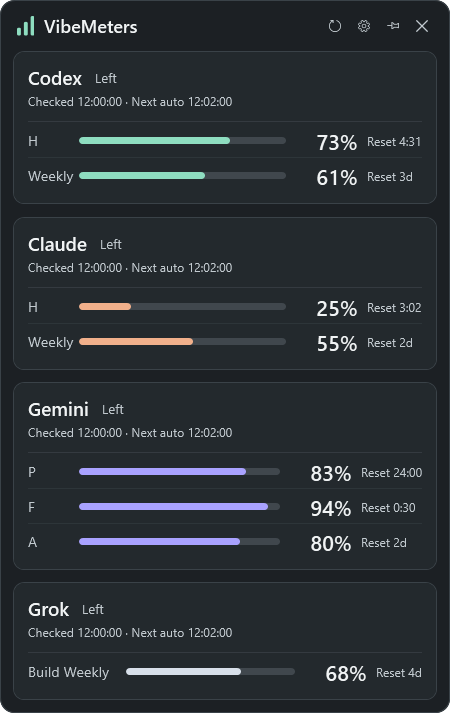
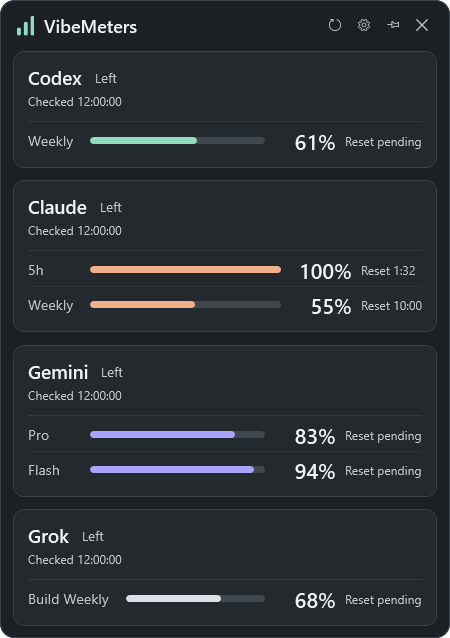
fix(dashboard): restore readable quota names and reserve shortcuts for widgets

diff --git a/MainWindow.xaml.cs b/MainWindow.xaml.cs
@@ -178,7 +178,7 @@ public partial class MainWindow : Window
         public double DividerBottom=>Size(0,1);
         public double Gap=>Size(3,11);
         public double CardRadius=>Size(5,9);
-        public double LabelWidth=>Localizer.IsEnglish?Size(32,42):Size(25,34);
+        public double LabelWidth=>Localizer.IsEnglish?Size(34,52):Size(26,42);
         public double ValueWidth=>Size(32,52);
         public double MeterHeight=>Size(3,6);
         public double MeterGap=>Size(4,9);
@@ -326,7 +326,7 @@ public partial class MainWindow : Window
             var entry=entries[i];var quota=entry.Quota;
             var row=new Grid { Height=metrics.RowHeight,ToolTip=WrappedTip(quota==null?ProviderTooltip(snapshot)+"\n사용량 정보 없음 · 수치를 확인하면 표시합니다.":WindowTooltip(quota,snapshot)+(quota.Name=="월 추가 사용"?"\n"+snapshot.Message:"")) };
             row.ColumnDefinitions.Add(new ColumnDefinition { Width=new GridLength(snapshot.Provider==UsageProviderKind.Grok?Math.Max(Localizer.IsEnglish?metrics.Size(54,82):metrics.Size(44,70),metrics.LabelWidth):metrics.LabelWidth) });row.ColumnDefinitions.Add(new ColumnDefinition());row.ColumnDefinitions.Add(new ColumnDefinition { Width=new GridLength(metrics.ValueWidth) });
-            row.Children.Add(new TextBlock { Text=ShortQuotaName(snapshot.Provider, entry.Name),Foreground=Palette("SecondaryText"),FontSize=metrics.LabelFont,VerticalAlignment=VerticalAlignment.Center,TextTrimming=TextTrimming.CharacterEllipsis });
+            row.Children.Add(new TextBlock { Text=ShortQuotaName(entry.Name),Foreground=Palette("SecondaryText"),FontSize=metrics.LabelFont,VerticalAlignment=VerticalAlignment.Center,TextTrimming=TextTrimming.CharacterEllipsis });
             var meter=new ProgressBar { Value=quota==null?0:DisplayPercent(snapshot.Provider,quota),Foreground=quota!=null&&quota.RemainingPercent<=10?Palette("CriticalText"):Accent(snapshot.Provider),Height=metrics.MeterHeight,Margin=new Thickness(0,0,metrics.MeterGap,0),VerticalAlignment=VerticalAlignment.Center };
             Grid.SetColumn(meter,1);row.Children.Add(meter);
             var value=quota==null?new TextBlock { Text="—",FontSize=metrics.ValueFont,Foreground=Palette("MutedText"),TextAlignment=TextAlignment.Right,VerticalAlignment=VerticalAlignment.Center }:QuotaValue(snapshot.Provider,quota,metrics.ValueFont);
@@ -360,10 +360,10 @@ public partial class MainWindow : Window
         Typography.SetNumeralAlignment(value,FontNumeralAlignment.Tabular);
         return value;
     }
-    private static string ShortQuotaName(UsageProviderKind provider, string name)
+    private static string ShortQuotaName(string name)
     {
-        if (provider == UsageProviderKind.Gemini && TaskbarProviderPresentation.GeminiGraphLabel(name) is { } model) return model;
-        return name.StartsWith("Build ",StringComparison.Ordinal)||name.StartsWith("공유 ",StringComparison.Ordinal)?name:name=="개인 한도"?"개인":name=="월 추가 사용"?"월추가":name.Contains("주")?"주간":name.Contains("5시간")?"H":name.Contains("세션")||name.Contains("시간")?"세션":name.Replace("모델","").Trim();
+        if (name.Contains("Argon", StringComparison.OrdinalIgnoreCase)) return "Argon";
+        return name.StartsWith("Build ",StringComparison.Ordinal)||name.StartsWith("공유 ",StringComparison.Ordinal)?name:name=="개인 한도"?"개인":name=="월 추가 사용"?"월추가":name.Contains("주")?"주간":name.Contains("5시간")?"5시간":name.Contains("세션")||name.Contains("시간")?"세션":name.Replace("모델","").Trim();
     }
     private static ToolTip WrappedTip(string text)=>new ToolTip { MaxWidth=280,Content=new TextBlock { Text=text,TextWrapping=TextWrapping.Wrap,MaxWidth=254,FontSize=11,LineHeight=17 } };
     private static string ProviderStatus(UsageSnapshot snapshot)

diff --git a/Services/VisualVerification.cs b/Services/VisualVerification.cs
@@ -646,9 +646,10 @@ internal sealed class VisualVerification
         AssertMainLayout("all services",new[]{("Codex",1),("Claude",2),("Gemini",2)});
         Check("all services natural design height with three refresh-status rows",Close(_window.ActualWidth,360)&&Close(_window.ActualHeight,442));
         Capture(_window,"window-all-services-dark.png");
-        _render(Demo(UsageProviderKind.Gemini) with { Windows = [new("Gemini Pro", 17, null), new("Flash", 6, null), new("4 Argon 주간", 20, null)] });
+        _render(Demo(UsageProviderKind.Gemini) with { Windows = [new("Pro", 17, null), new("Flash", 6, null), new("Flash-Lite", 8, null), new("4 Argon 주간", 20, null)] });
         await StableAsync(_window);
-        Check("dashboard abbreviates the three Gemini quota models", new[] { "P", "F", "A" }.All(label =>
+        Check("dashboard shows the five-hour window by name", Descendants<TextBlock>(Cards()[1]).Any(t => t.Text == "5시간" && t.IsVisible));
+        Check("dashboard preserves readable Gemini model names", new[] { "Pro", "Flash", "Flash-Lite", "Argon" }.All(label =>
             Descendants<TextBlock>(Cards()[2]).Any(t => t.Text == label && t.IsVisible)));
         _render(Demo(UsageProviderKind.Gemini));
         _window.Width=220;_window.Height=140;await StableAsync(_window);
@@ -662,7 +663,13 @@ internal sealed class VisualVerification
         Localizer.SetLanguage(AppLanguage.English);
         await StableAsync(_window);
         Capture(_window, "window-four-services-grok-en-dark.png");
+        ThemeService.Apply(AppTheme.Light);
+        await StableAsync(_window);
+        Capture(_window, "window-four-services-grok-en-light.png");
         Localizer.SetLanguage(AppLanguage.Korean);
+        await StableAsync(_window);
+        Capture(_window, "window-four-services-grok-light.png");
+        ThemeService.Apply(AppTheme.Dark);
         _window.Width=220;_window.Height=140;await StableAsync(_window);
         AssertMainLayout("four services minimum readable size",new[]{("Codex",1),("Claude",2),("Gemini",2),("Grok",1)});
         Capture(_window,"window-four-services-grok-minimum-dark.png");

diff --git a/README.en.md b/README.en.md
@@ -32,7 +32,7 @@ Codex Business uses the supplied `spend_control.individual_limit` and Claude Ent
 
 In **Settings → Services · Display basis**, each service has separate controls for dashboard visibility, its taskbar widget and the percentage shown (used or remaining). Click a widget to open the dashboard. Widgets appear in free space inside the primary taskbar.
 
-Each reported quota gets one row with its label, graph, percentage and time to reset. Up to 24 hours, the time is shown in hours and minutes, such as `24:00`, `10:00` or `4:31`. Above 24 hours it shows whole days, such as `2d`. Countdowns keep updating in manual refresh mode. Hover for full quota names and the local reset time. Gemini labels use `A` for Argon, `P` for Pro, `F` for Flash and `FL` for Flash-Lite when the account reports these quotas.
+Each reported quota gets one row with its label, graph, percentage and time to reset. Up to 24 hours, the time is shown in hours and minutes, such as `24:00`, `10:00` or `4:31`. Above 24 hours it shows whole days, such as `2d`. Countdowns keep updating in manual refresh mode. Hover for full quota names and the local reset time. The dashboard shows quota and model names. Taskbar widgets use `H` for a five-hour window and `A` for Argon, `P` for Pro, `F` for Flash and `FL` for Flash-Lite when the account reports these quotas.
 
 Under **Settings → Accounts → Gemini account**, choose the account to display. **Default CLI account** uses your existing connection. **Antigravity** uses the personal account currently signed in to the official CLI. **Code Assist 1** and **Code Assist 2** are independent company account slots. Select each slot and use **Sign in to Gemini** to connect its Google account. You can then switch between them without signing in again while their sessions are valid.
 
